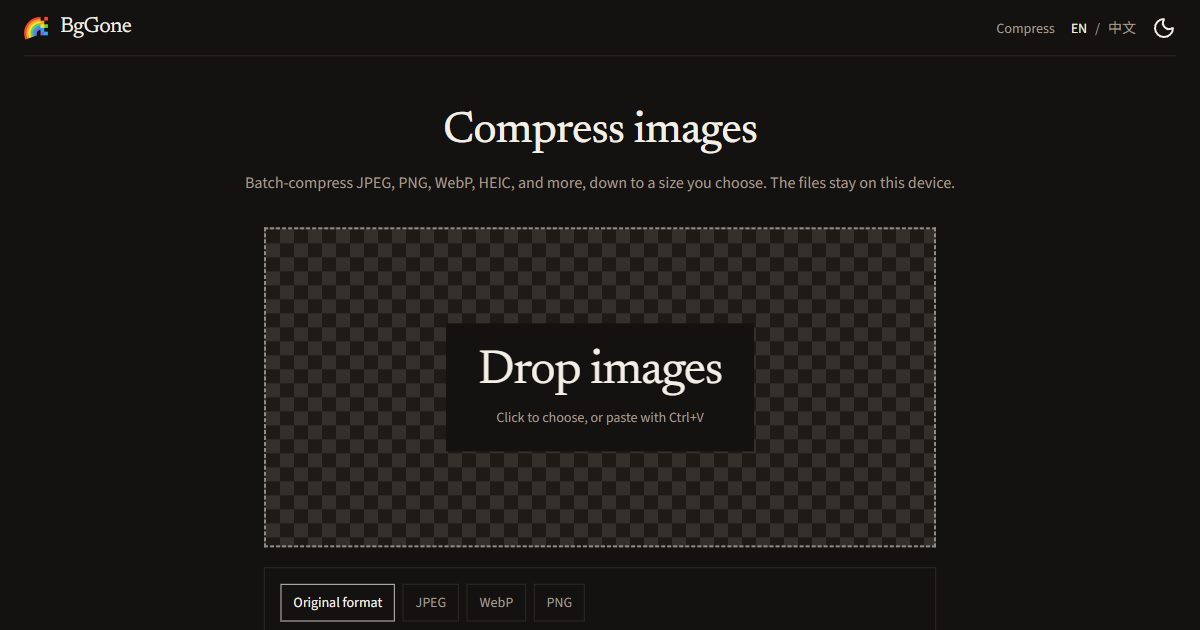
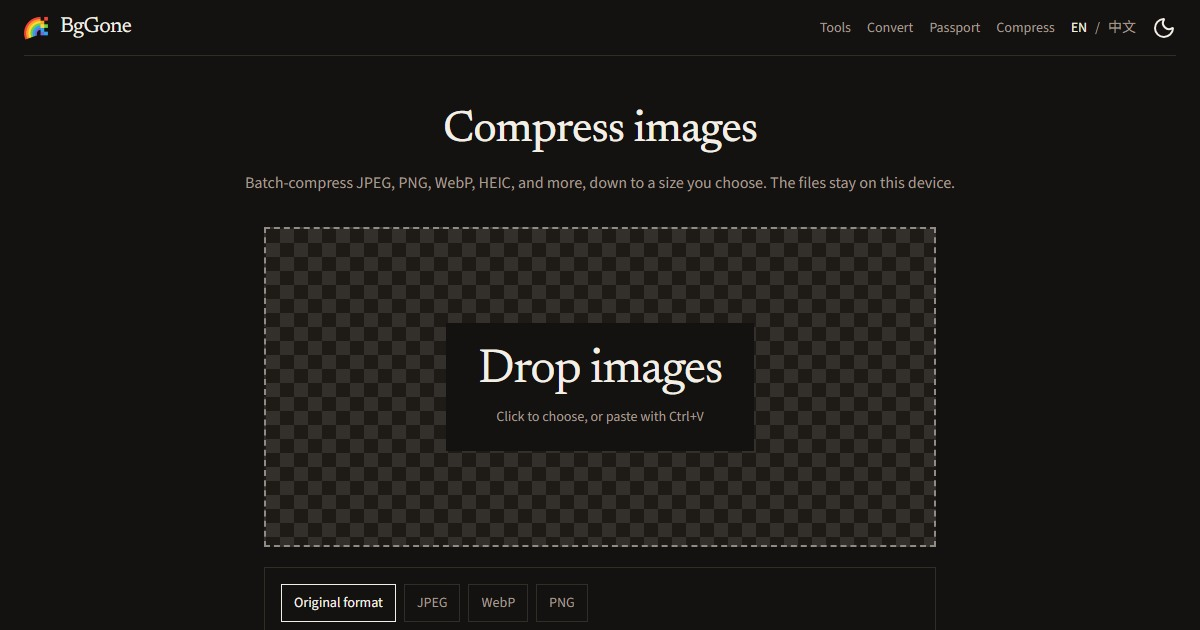
feat: add mobile menu and refresh share images

diff --git a/components/layouts/MobileMenu.tsx b/components/layouts/MobileMenu.tsx
@@ -1,0 +1,83 @@
+'use client';
+
+import { useEffect, useId, useRef, useState } from 'react';
+import { Menu, X } from 'lucide-react';
+import { localizedPath, t, type Lang } from '@/lib/i18n';
+
+export default function MobileMenu({ lang }: { lang: Lang }) {
+  const [open, setOpen] = useState(false);
+  const menuRef = useRef<HTMLDivElement>(null);
+  const panelId = useId();
+
+  useEffect(() => {
+    if (!open) return;
+    function closeOnEscape(event: KeyboardEvent) {
+      if (event.key === 'Escape') setOpen(false);
+    }
+    function closeOnOutside(event: PointerEvent) {
+      if (
+        menuRef.current &&
+        !menuRef.current.contains(event.target as Node)
+      ) {
+        setOpen(false);
+      }
+    }
+    const previousOverflow = document.body.style.overflow;
+    document.body.style.overflow = 'hidden';
+    document.addEventListener('keydown', closeOnEscape);
+    document.addEventListener('pointerdown', closeOnOutside);
+    return () => {
+      document.body.style.overflow = previousOverflow;
+      document.removeEventListener('keydown', closeOnEscape);
+      document.removeEventListener('pointerdown', closeOnOutside);
+    };
+  }, [open]);
+
+  const links = [
+    { href: localizedPath(lang, '/tools'), label: t(lang, 'toolsNav') },
+    { href: localizedPath(lang, '/convert'), label: t(lang, 'convertNav') },
+    {
+      href: localizedPath(lang, '/passport-photo'),
+      label: t(lang, 'passportNav'),
+    },
+    {
+      href: localizedPath(lang, '/compress'),
+      label: t(lang, 'compressNav'),
+    },
+  ];
+
+  return (
+    <div ref={menuRef} className="relative md:hidden">
+      <button
+        type="button"
+        aria-expanded={open}
+        aria-controls={panelId}
+        aria-label={open ? t(lang, 'menuClose') : t(lang, 'menuLabel')}
+        className="flex h-9 w-9 items-center justify-center border border-(--line) text-(--ink)"
+        onClick={() => setOpen((value) => !value)}
+      >
+        {open ? <X className="h-4 w-4" /> : <Menu className="h-4 w-4" />}
+      </button>
+
+      {open ? (
+        <div
+          id={panelId}
+          className="fixed inset-x-0 top-14 bottom-0 z-50 overflow-y-auto overscroll-contain border-y border-(--line) bg-(--paper) p-2 shadow-lg"
+        >
+          <nav className="flex flex-col">
+            {links.map((link) => (
+              <a
+                key={link.href}
+                href={link.href}
+                onClick={() => setOpen(false)}
+                className="px-4 py-3 text-sm text-(--ink) hover:bg-(--paper-2)"
+              >
+                {link.label}
+              </a>
+            ))}
+          </nav>
+        </div>
+      ) : null}
+    </div>
+  );
+}

diff --git a/components/layouts/Header.tsx b/components/layouts/Header.tsx
@@ -2,6 +2,7 @@ import { ThemeProvider } from '@/components/ThemeProvider';
 import Navigation from './Navigation';
 import ThemeIcon from './ThemeIcon';
 import LanguageSwitch from '@/components/LanguageSwitch';
+import MobileMenu from './MobileMenu';
 import { localizedPath, t, type Lang } from '@/lib/i18n';
 import { showUnfinished } from '@/lib/launch';
 
@@ -11,8 +12,9 @@ export default function Header({ lang }: { lang: Lang }) {
       <nav className="flex min-h-14 flex-wrap items-center justify-between gap-x-4 gap-y-2 border-b border-(--line) py-2">
         <Navigation lang={lang} />
         <div className="flex flex-wrap items-center justify-end gap-x-4 gap-y-1">
-          <a
-            href={localizedPath(lang, '/tools')}
+          <div className="hidden items-center gap-x-4 md:flex">
+            <a
+              href={localizedPath(lang, '/tools')}
             className="text-sm text-(--muted-ink) hover:text-(--ink)"
           >
             {t(lang, 'toolsNav')}
@@ -22,6 +24,12 @@ export default function Header({ lang }: { lang: Lang }) {
             className="text-sm text-(--muted-ink) hover:text-(--ink)"
           >
             {t(lang, 'convertNav')}
+          </a>
+          <a
+            href={localizedPath(lang, '/passport-photo')}
+            className="text-sm text-(--muted-ink) hover:text-(--ink)"
+          >
+            {t(lang, 'passportNav')}
           </a>
           <a
             href={localizedPath(lang, '/compress')}
@@ -45,6 +53,7 @@ export default function Header({ lang }: { lang: Lang }) {
               </a>
             </>
           ) : null}
+          </div>
           <LanguageSwitch lang={lang} />
           <ThemeProvider
             attribute="class"
@@ -54,6 +63,7 @@ export default function Header({ lang }: { lang: Lang }) {
           >
             <ThemeIcon />
           </ThemeProvider>
+          <MobileMenu lang={lang} />
         </div>
       </nav>
     </header>

diff --git a/lib/i18n/index.ts b/lib/i18n/index.ts
@@ -86,6 +86,9 @@ export const translations = {
     compressNav: 'Compress',
     convertNav: 'Convert',
     toolsNav: 'Tools',
+    passportNav: 'Passport',
+    menuLabel: 'Menu',
+    menuClose: 'Close menu',
     toolsTitle: 'Browser image tools',
     toolsLead:
       'Remove backgrounds, compress images, and convert formats locally. No upload and no login.',
@@ -239,6 +242,9 @@ export const translations = {
     compressNav: '压缩',
     convertNav: '转换',
     toolsNav: '工具',
+    passportNav: '证件照',
+    menuLabel: '菜单',
+    menuClose: '关闭菜单',
     toolsTitle: '浏览器图片工具',
     toolsLead: '在本机去除背景、压缩图片、转换格式。无需上传，也无需登录。',
     passportTitle: '证件照制作',

diff --git a/lib/passport/pages.ts b/lib/passport/pages.ts
@@ -677,7 +677,7 @@ export function passportPageMetadata(
   const canonical = new URL(localizedPath(lang, '/passport-photo'), SITE_URL).href;
   const enUrl = new URL(localizedPath('en', '/passport-photo'), SITE_URL).href;
   const zhUrl = new URL(localizedPath('zh', '/passport-photo'), SITE_URL).href;
-  const ogImage = '/bggone-bg-remover.jpg';
+  const ogImage = '/bggone-passport.jpg';
 
   return {
     title: copy.title,

diff --git a/styles/globals.css b/styles/globals.css
@@ -56,11 +56,11 @@ button:disabled {
 }
 
 .main-width {
-  @apply mx-auto sm:w-lg md:w-xl lg:w-2xl xl:w-3xl 2xl:w-4xl;
+  @apply mx-auto w-full sm:w-lg md:w-xl lg:w-2xl xl:w-3xl 2xl:w-4xl;
 }
 
 .main-width-wide {
-  @apply mx-auto sm:w-lg md:w-xl lg:w-3xl xl:w-4xl 2xl:w-5xl;
+  @apply mx-auto w-full sm:w-lg md:w-xl lg:w-3xl xl:w-4xl 2xl:w-5xl;
 }
 
 .main-max-width {
